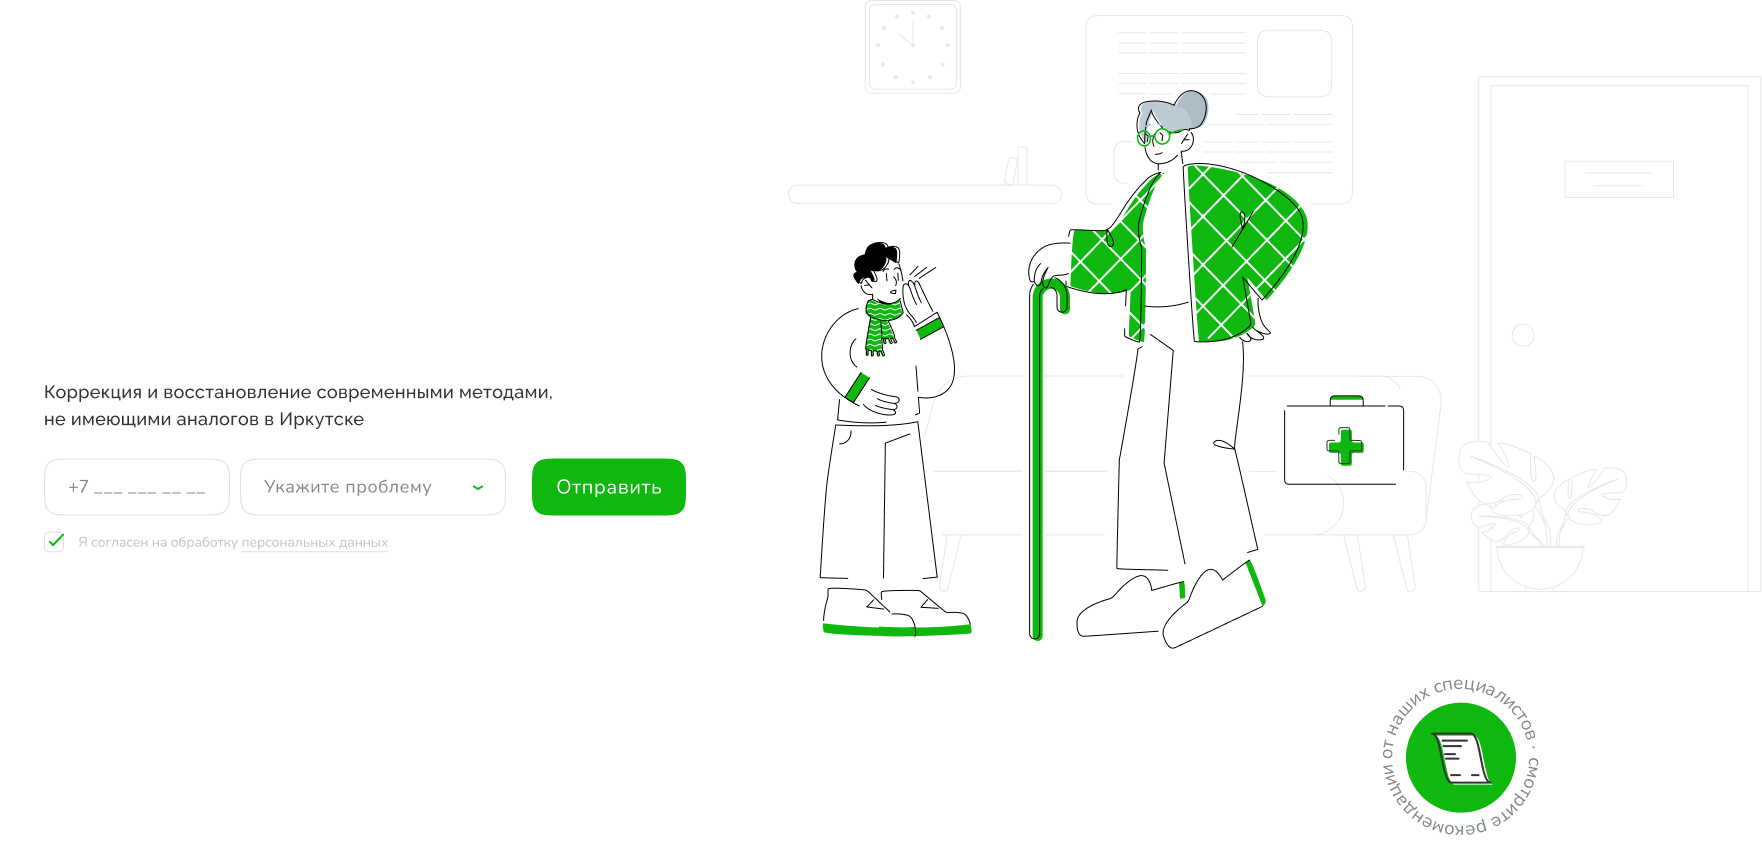
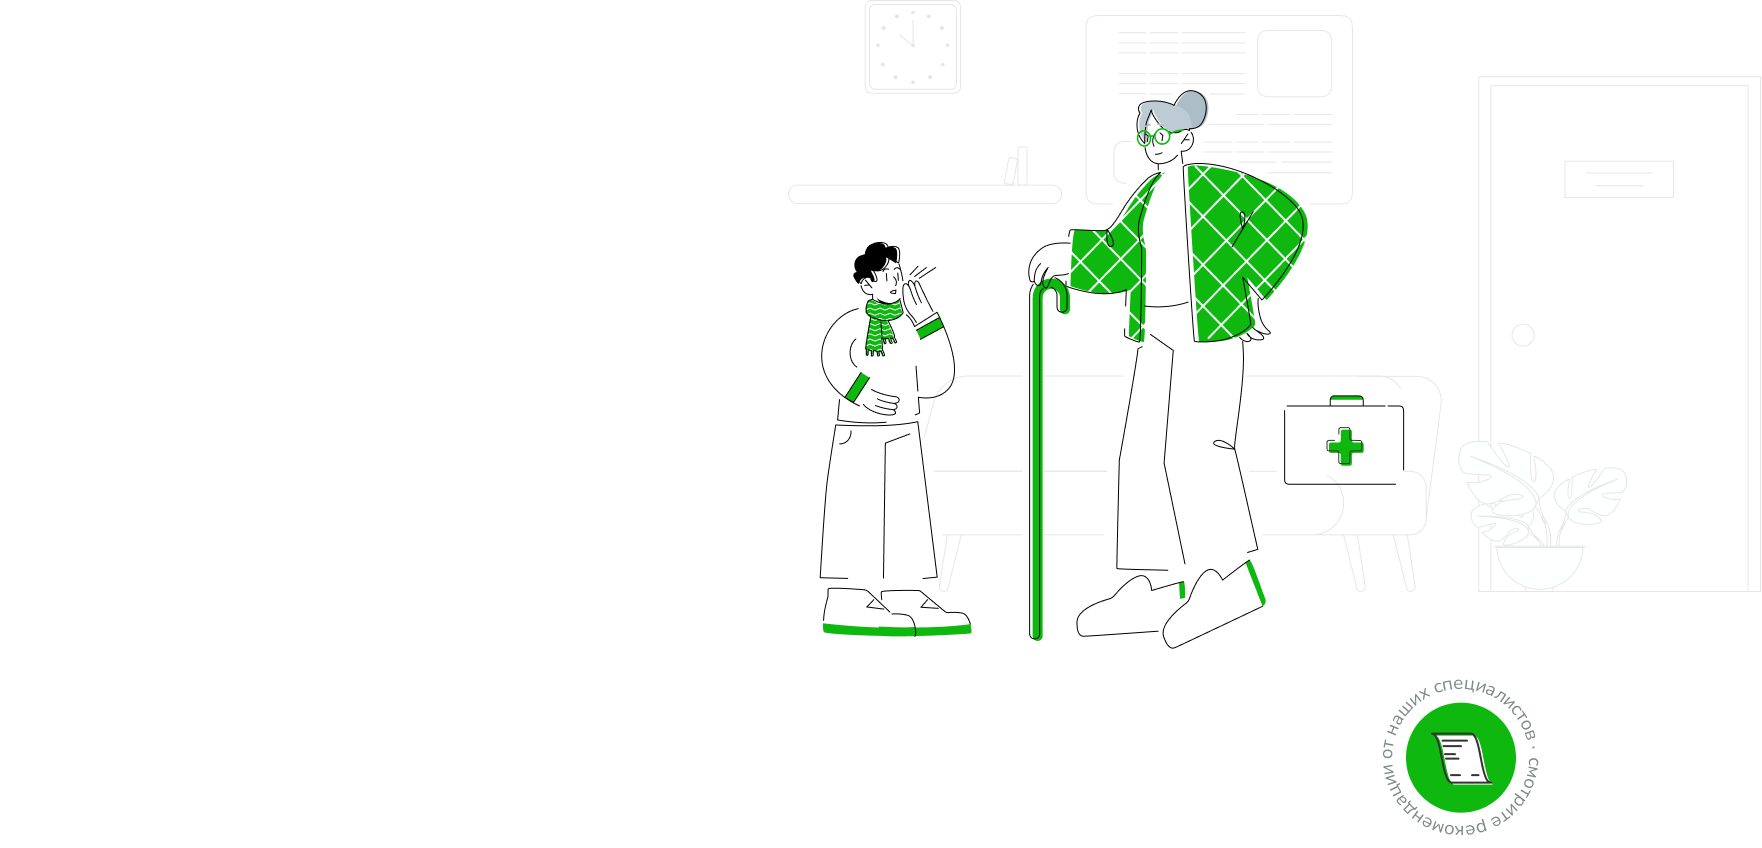
add new code1

Changed region(s): [[0.0312, 0.4599, 0.3121, 0.5212], [0.2809, 0.5212, 0.4058, 0.6132], [0.1561, 0.5519, 0.2497, 0.5825]]

diff --git a/index.html b/index.html
@@ -7,21 +7,28 @@
     <title>Новые Возможности</title>
     <link rel="stylesheet" href="./style.css">
     <link rel="icon" href="./assets/logo.png">
-    <link rel="stylesheet" href="./normalize.css">
+    <link rel="normalize" href="./normalize.css">
+    <style>
+        @import url('https://fonts.googleapis.com/css2?family=Cormorant+Garamond:ital@1&family=Oswald:wght@200&family=Raleway:wght@100;300&family=Roboto:wght@300&family=Sacramento&family=Vidaloka&display=swap');
+        </style>
 </head>
 <body>
     <header>
         <img src="./assets/logo.png" alt="logo">
         <img src="./assets/new_vozm1.png" alt="new_vozm">
-        <nav class="menu">
-            <a href='#part1'>Результаты</a>
-            <a href='#part2'>Отзывы</a>
-            <a href='#part3'>Методы</a>
-            <a href='#part3'>Консультация</a>
-            <a href='#part3'>Для приезжих</a>
-            <a href='#part3'>О нас</a>
+        <nav>
+            <a class="menu" href='#part1'>Результаты</a>
+            <a class="menu" href='#part2'>Отзывы</a>
+            <a class="menu" href='#part3'>Методы</a>
+            <a class="menu" href='#part3'>Консультация</a>
+            <a class="menu" href='#part3'>Для приезжих</a>
+            <a class="menu" href='#part3'>О нас</a>
             </nav>
             <div> +7 (964) 652 72 92</div>
+            <img src="./assets/ZakCall.png" alt="ZakCall">
+            <img src="./assets/VK.png" alt="vk">
+            <img src="./assets/WA.png" alt="wa">
+            <img src="./assets/INST.png" alt="inst">
     </header>
     <div class="main">
     <div class="vosst1">
@@ -29,6 +36,10 @@
     </div>
     <div class="vosst2">
         с детским церебральным параличом
+       </div>
+       <div id="text1">
+        Коррекция и восстановление современными методами, 
+        <br>не имеющими аналогов в Иркутске
        </div>
     </div>
 </body>

diff --git a/style.css b/style.css
@@ -1,7 +1,24 @@
+.menu{
+    text-decoration: none;
+    font-family: 'Nunito';
+font-style: normal;
+font-weight: 400;
+font-size: 15px;
+line-height: 150%;
+
+letter-spacing: 0.03em;
+
+color: #333333;
+
+opacity: 0.5;
+
+}
+
 .main{
     background-image: url(./assets/Group\ 501.png);
+    background-size: 100%;
+    height: 100vh;
     width: 100%;
-    height: 100%;
 }
 .vosst1{
     width: 501px;
@@ -24,27 +41,20 @@ font-style: normal;
 font-weight: 400;
 font-size: 40px;
 line-height: 150%;
-/* or 60px */
-
 letter-spacing: 0.03em;
-
-/* зеленый */
-
 color: #0EB80E;
 }
 
-.menu{
-    font-family: 'Nunito';
+#text1{
+    font-family: 'Raleway';
 font-style: normal;
-font-weight: 600;
-font-size: 15px;
+font-weight: 500;
+font-size: 18px;
 line-height: 150%;
-/* identical to box height, or 22px */
 
-letter-spacing: 0.03em;
+letter-spacing: 0.02em;
+font-feature-settings: 'pnum' on, 'lnum' on;
 
-/* 5f */
 
 color: #333333;
-
 }
